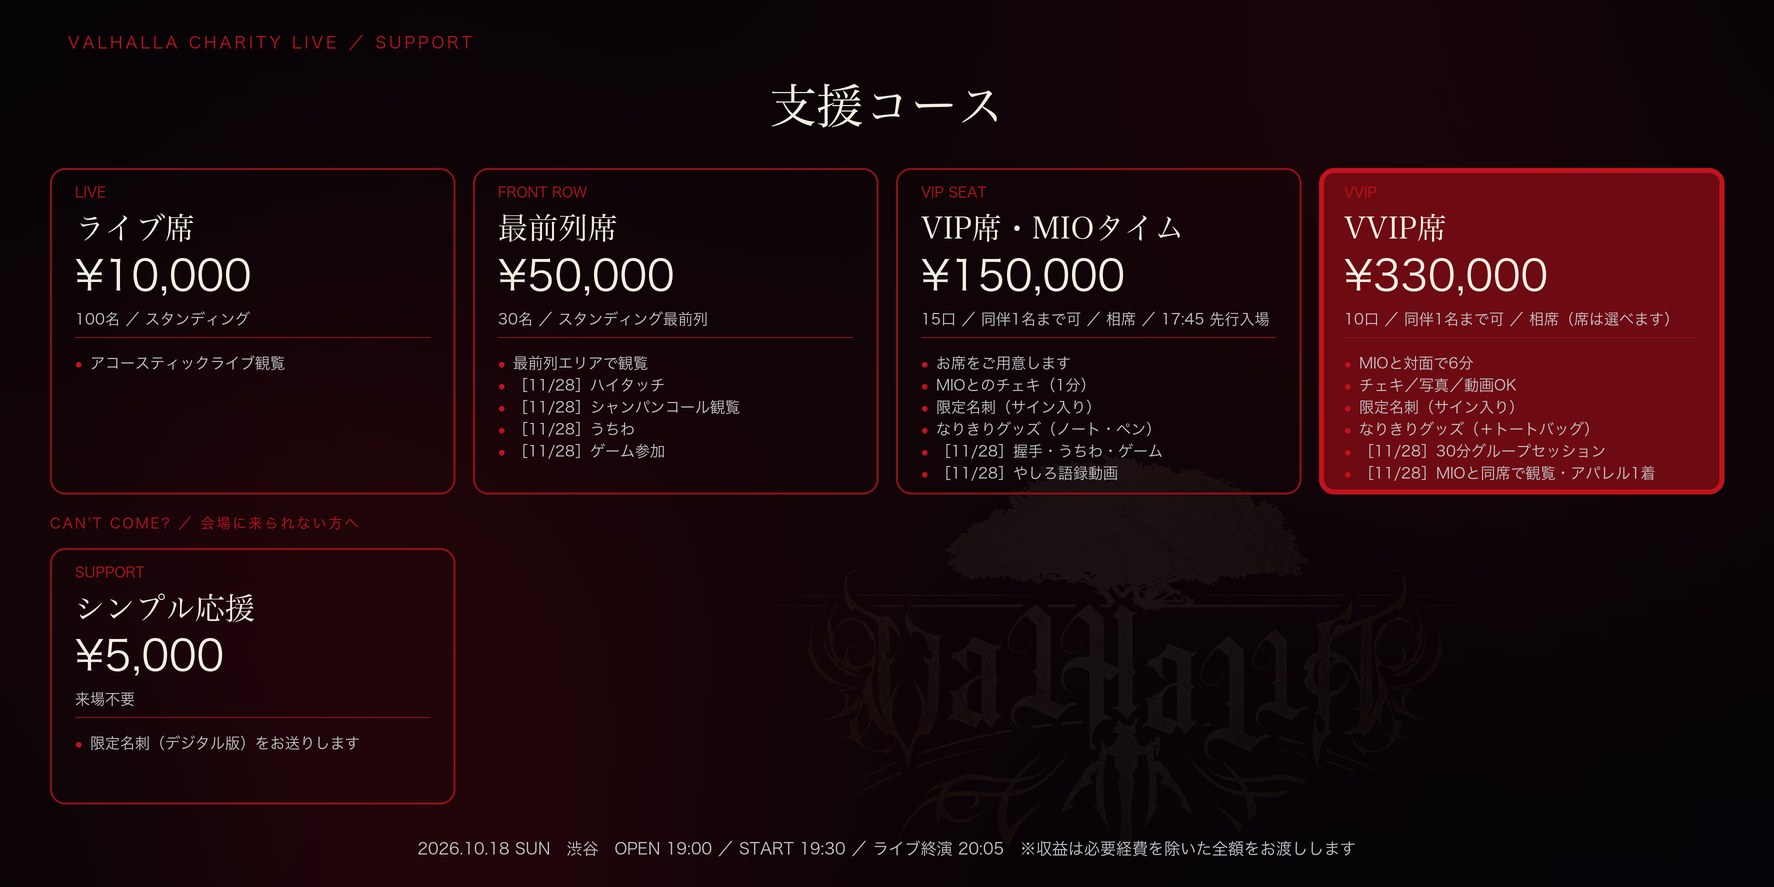
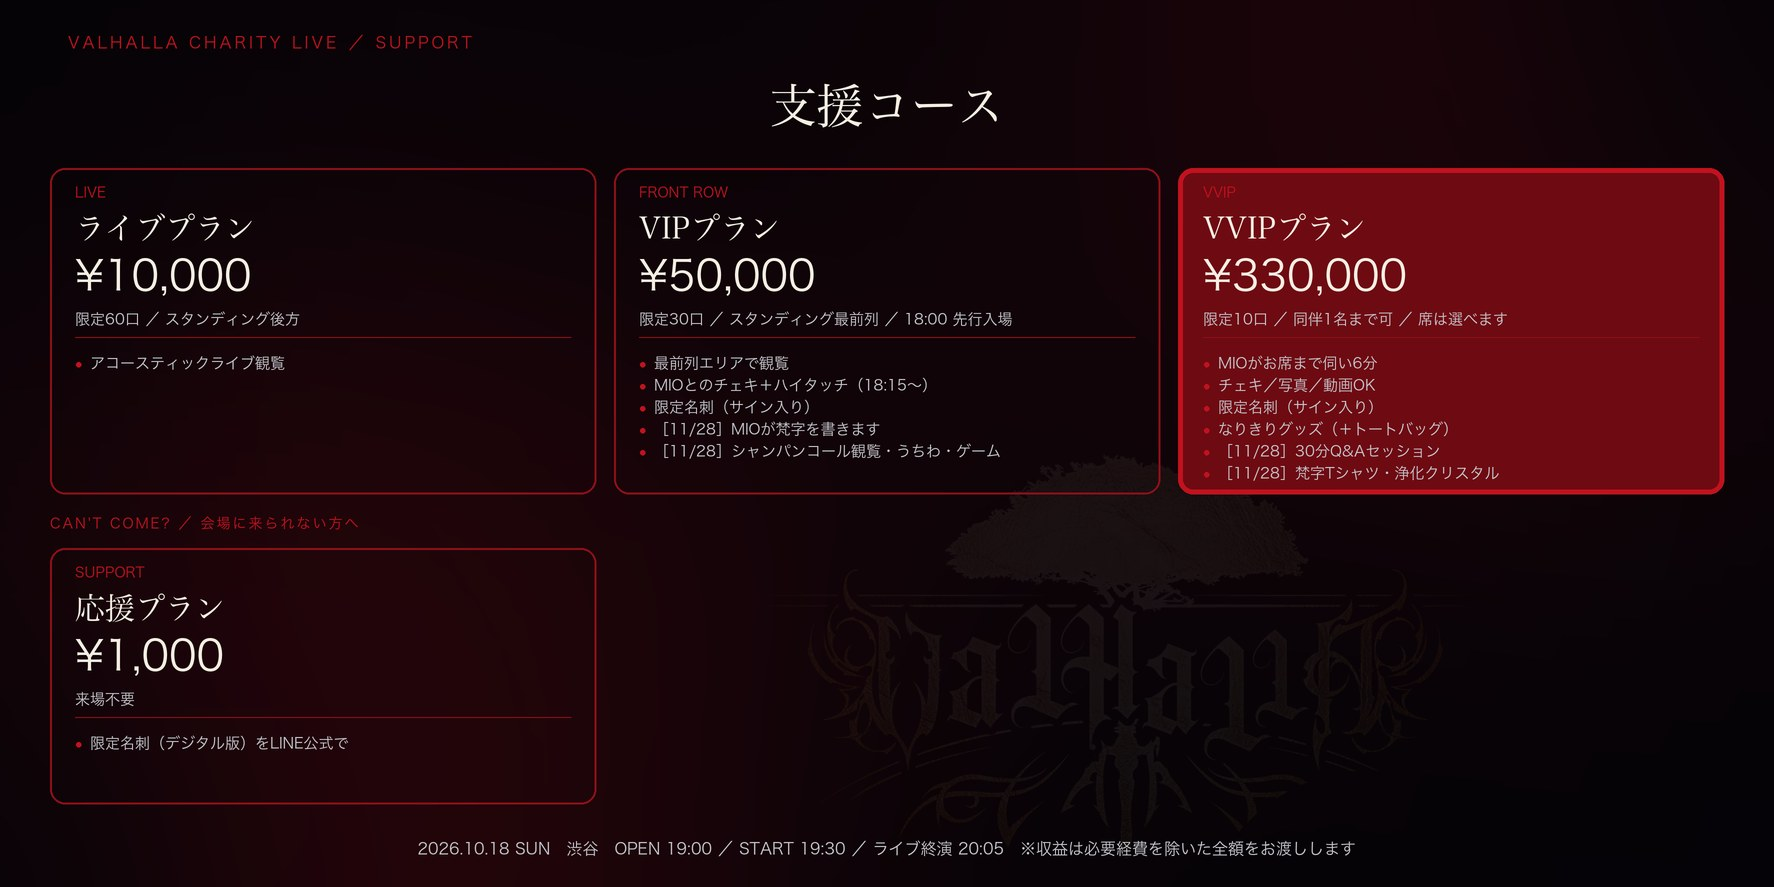
charity: four plans, a hundred slots
The 150k tier is gone; its photo session moves down to VIP and the seats
it held go back to the floor. VVIP gains the crystal and the sanskrit
shirt, and its half-hour is now answering questions collected on the night.

diff --git a/assets/charity/create_returns_banner.py b/assets/charity/create_returns_banner.py
@@ -178,24 +178,20 @@ def add_cards(base: Image.Image) -> None:
     # 来場コース（上段）と、来場不要コース（下段）。段ごとに等分するので
     # コースの本数が変わってもレイアウトは崩れない。
     upper = (
-        ("LIVE", "ライブ席", "¥10,000", "100名 ／ スタンディング",
+        ("LIVE", "ライブプラン", "¥10,000", "限定60口 ／ スタンディング後方",
          ("アコースティックライブ観覧",)),
-        ("FRONT ROW", "最前列席", "¥50,000", "30名 ／ スタンディング最前列",
-         ("最前列エリアで観覧", "［11/28］ハイタッチ",
-          "［11/28］シャンパンコール観覧", "［11/28］うちわ",
-          "［11/28］ゲーム参加")),
-        ("VIP SEAT", "VIP席・MIOタイム", "¥150,000", "15口 ／ 同伴1名まで可 ／ 相席 ／ 17:45 先行入場",
-         ("お席をご用意します", "MIOとのチェキ（1分）", "限定名刺（サイン入り）",
-          "なりきりグッズ（ノート・ペン）", "［11/28］握手・うちわ・ゲーム",
-          "［11/28］やしろ語録動画")),
-        ("VVIP", "VVIP席", "¥330,000", "10口 ／ 同伴1名まで可 ／ 相席（席は選べます）",
-         ("MIOと対面で6分", "チェキ／写真／動画OK", "限定名刺（サイン入り）",
-          "なりきりグッズ（＋トートバッグ）", "［11/28］30分グループセッション",
-          "［11/28］MIOと同席で観覧・アパレル1着")),
+        ("FRONT ROW", "VIPプラン", "¥50,000", "限定30口 ／ スタンディング最前列 ／ 18:00 先行入場",
+         ("最前列エリアで観覧", "MIOとのチェキ＋ハイタッチ（18:15〜）",
+          "限定名刺（サイン入り）", "［11/28］MIOが梵字を書きます",
+          "［11/28］シャンパンコール観覧・うちわ・ゲーム")),
+        ("VVIP", "VVIPプラン", "¥330,000", "限定10口 ／ 同伴1名まで可 ／ 席は選べます",
+         ("MIOがお席まで伺い6分", "チェキ／写真／動画OK", "限定名刺（サイン入り）",
+          "なりきりグッズ（＋トートバッグ）", "［11/28］30分Q&Aセッション",
+          "［11/28］梵字Tシャツ・浄化クリスタル")),
     )
     lower = (
-        ("SUPPORT", "シンプル応援", "¥5,000", "来場不要",
-         ("限定名刺（デジタル版）をお送りします",)),
+        ("SUPPORT", "応援プラン", "¥1,000", "来場不要",
+         ("限定名刺（デジタル版）をLINE公式で",)),
     )
     cards = upper + lower
     col = (W - margin * 2 - gap * (len(upper) - 1)) // len(upper)

diff --git a/assets/charity/create_floor_banner.py b/assets/charity/create_floor_banner.py
@@ -135,8 +135,7 @@ def build(out: Path) -> None:
     # 区画に印を打つ。VVIP は金、VIP席は青
     for name in VVIP:
         zone_mark(img, at(name), 34, GOLD, 3.8)
-    for name in SSEAT:
-        zone_mark(img, at(name), 27, BLUE, 3.2)
+    # V2・V3・V5・V6・S1〜S4 は今回は使用しないので、印は打たない
     d = ImageDraw.Draw(img)
 
     # ステージのすぐ手前が最前列。丸ではなく楕円で、前方だけを囲う
@@ -164,10 +163,10 @@ def build(out: Path) -> None:
     x = 900
     y = 176
     rows = [
-        (GOLD, "VVIP席", "図の金色の4区画から、先着順でお選びいただけます"),
-        (BLUE, "VIP席・MIOタイム", "図の青色の区画。お席は主催者が指定します"),
-        (FRONT_RED, "最前列席", "ステージ前の最前列エリアで立ってご覧いただきます"),
-        (None, "ライブ席", "その後ろの中央フロアで立ってご覧いただきます"),
+        (GOLD, "VVIPプラン", "図の金色の4区画から、先着順でお選びいただけます"),
+        (FRONT_RED, "VIPプラン", "ステージ前の最前列エリアで立ってご覧いただきます"),
+        (None, "MIOタイム", "18:15〜 ステージ前でチェキ＋ハイタッチ（VIPプランの方）"),
+        (None, "ライブプラン", "その後ろの中央フロアで立ってご覧いただきます"),
     ]
     for color, title, sub in rows:
         if color:
@@ -180,13 +179,13 @@ def build(out: Path) -> None:
     y += 16
     d.text(spos((x, y)), "お席はすべて相席です", font=face(SANS_B, 24), fill=CREAM)
     for i, line in enumerate([
-            "着席のコース（VIP席・VVIP席）は、グループごとの",
+            "着席のコース（VVIPプラン）は、グループごとの",
             "個室・貸切ではありません。ほかのお客様と同じ",
             "区画・同じテーブルになります。"]):
         d.text(spos((x, y + 40 + i * 32)), line, font=face(SANS, 19), fill=SILVER)
 
     y += 156
-    d.text(spos((x, y)), "着席 50名 ／ スタンディング 130名", font=face(SANS_B, 22), fill=GOLD)
+    d.text(spos((x, y)), "来場は限定100口　着席 20名 ／ スタンディング 90名", font=face(SANS_B, 22), fill=GOLD)
     lead, lead_f = "ドリンクは会場（図の BAR）が提供します　", face(SANS, 19)
     d.text(spos((x, y + 36)), lead, font=lead_f, fill=SILVER)
     d.text(spos((x + d.textlength(lead, font=lead_f) / SCALE, y + 36)),

diff --git a/assets/charity/create_timetable_banner.py b/assets/charity/create_timetable_banner.py
@@ -183,8 +183,8 @@ def add_nodes(base: Image.Image) -> None:
     time_font = face(LATIN, 60)
     label_font = face(MINCHO, 29)
     cues = ("", "OPEN", "START", "", "", "END")
-    times = ("17:45", "19:00", "19:30", "20:05", "20:10", "21:10")
-    labels = ("VIP席 先行入場", "一般入場", "開演", "終演", "VVIP席", "見送り")
+    times = ("18:00", "19:00", "19:30", "20:05", "20:10", "21:10")
+    labels = ("VIP 先行入場", "一般入場", "開演", "終演", "VVIP", "見送り")
     for x, cue, time, label in zip(centers_x, cues, times, labels):
         if cue:
             cue_width = sum(td.textlength(char, font=cue_font) for char in cue)

diff --git a/docs/returns-v2.md b/docs/returns-v2.md
@@ -1,0 +1,124 @@
+# VALHALLA CHARITY LIVE ／ リターン内容（2026年9月18日 16:15 時点）
+
+2026年10月18日（日）渋谷　OPEN 19:00 ／ START 19:30 ／ ライブ終演 20:05
+**来場は100名限定。** 着席20名（VVIP）＋スタンディング80名（VIP 30・ライブ 50）
+
+---
+
+## コースは4本
+
+| | 金額 | 限定 | 来場 | 実人数 |
+|---|---|---|---|---|
+| 応援プラン | 1,000円 | 無制限 | 来場なし | — |
+| ライブプラン | 10,000円 | 50 | スタンディング後方 | 50名 |
+| VIPプラン | 50,000円 | 30 | スタンディング最前列 | 30名 |
+| VVIPプラン | 330,000円 | 10口 | 着席（金色4区画） | 20名 |
+
+**満席時の来場売上　50万＋150万＋330万＝530万円**（＋応援プラン）
+
+---
+
+## ① 応援プラン　1,000円（無制限・来場なし）
+
+- 限定名刺（デジタル版）
+
+**お渡しの方法**
+LINE公式アカウントで受け取っていただく。支援後、メールで「友だち追加リンク」と「合言葉」を送り、
+合言葉を送ると自動で名刺が届く。
+
+- 支援してくださった方**全員**にお渡し（抽選ではない）
+- お渡しは 2026年11月
+- 来場の特典は含まれない
+
+---
+
+## ② ライブプラン　10,000円（限定50・スタンディング後方）
+
+**＜ライブ当日＞**
+- アコースティックライブ観覧（スタンディング後方エリア）
+- フリードリンク（飲み放題）
+
+---
+
+## ③ VIPプラン　50,000円（限定30・スタンディング最前列）
+
+**＜ライブ当日＞**
+- 最前列エリアでのライブ観覧（スタンディング）
+- **先行入場 18:00〜**
+- **MIO とのチェキ撮影＋ハイタッチ（18:15〜／お一人1分）**
+- 限定名刺（MIO 本人のサイン入り／ネックストラップ付き）
+- フリードリンク（飲み放題）
+
+**＜ファンミーティング　11月28日（土）／ユグドラシル本店＞**
+- **MIO が梵字をお書きします**（持参したものに直接／無ければサイン色紙に）
+- 限定シャンパンコールの観覧（後方より）
+- オリジナルうちわ
+- ゲームへの参加（賞品＝MIO の私物 限定3点）
+
+---
+
+## ④ VVIPプラン　330,000円（限定10口・同伴1名まで＝20名・着席）
+
+**＜ライブ当日＞**
+- お好きなお席を先着順で選べる（フロア図の金色4区画）
+- 同伴1名まで無料
+- フリードリンク（飲み放題）
+- **MIO がお席まで伺い、6分前後お話し（20:10〜21:10）**
+- チェキ／写真／動画の撮影OK
+- 限定名刺（サイン入り／ネックストラップ付き）
+- なりきりしゃーみーグッズ（ノート・ペン・トートバッグ）
+
+**＜ファンミーティング　11月28日（土）／ユグドラシル本店＞**
+- **30分間のグループセッション**＝当日会場で集めた質問に MIO が答える Q&A
+- 限定シャンパンコールを MIO と同じお席で観覧
+- **梵字Tシャツ 1着**（MIO のアパレル／20名さま全員に）
+- **MIO が滝で浄化したクリスタル**（滝行と浄化の様子の動画つき）
+- オリジナルうちわ
+- ゲームへの参加
+
+---
+
+## 当日の流れ
+
+| 時刻 | |
+|---|---|
+| 18:00 | 先行入場（VIPプランのみ） |
+| 18:15 | MIOタイム（チェキ撮影＋ハイタッチ／お一人1分・30名） |
+| 18:30 | VVIPプランのご入場（19:00 までに） |
+| 19:00 | 一般入場開始 |
+| 19:25 | 受付締切 |
+| 19:30 | ライブ開演 |
+| 20:05 | 終演／VVIP以外はご退場 |
+| 20:10 | VVIP（MIO がお席へ伺う／各席 前後6分） |
+| 21:10 | 見送り |
+
+再入場なし。先行入場した人は開演までフロア／お席で待機。
+
+---
+
+## 今回の変更で消えたもの
+
+- **15万円「VIP席・MIOタイム」** … コースごと削除（CAMPFIRE からも削除済み）
+- **やしろ語録動画** … 15万の特典だったため消滅
+- **5,000円 シンプル応援** … 1,000円 応援プランに置き換え
+- **なりきりしゃーみーグッズ（ノート・ペン）の15万版**
+- **限定名刺のQRコード** … 廃止済み
+- **軽食** … 廃止済み
+
+## 移動したもの
+
+- **ハイタッチ**　ファンミ → **当日（VIPプラン・チェキと同時）**
+- **限定名刺**　15万以上 → **VIPプランにも付く**
+- **アパレル1着** → **梵字Tシャツ**として中身確定
+
+---
+
+## まだ決まっていないこと
+
+1. **来場100名の内訳**　いまは VVIP20＋VIP30＋ライブ50＝100 で置いた。
+   ライブプランの枠を変えるなら、いま直す（公開後は変更不可）
+2. **タイトル**　「限定100名」を入れる。**公開後は編集不可**なので今日中に確定が必要
+3. 会場名の解禁日
+4. グッズ（ノート・ペン・トートバッグ・うちわ）のデザイン
+5. クリスタルの仕入れ数（20個）と、滝の動画の納品形式
+6. 梵字Tシャツのサイズ確認の方法
